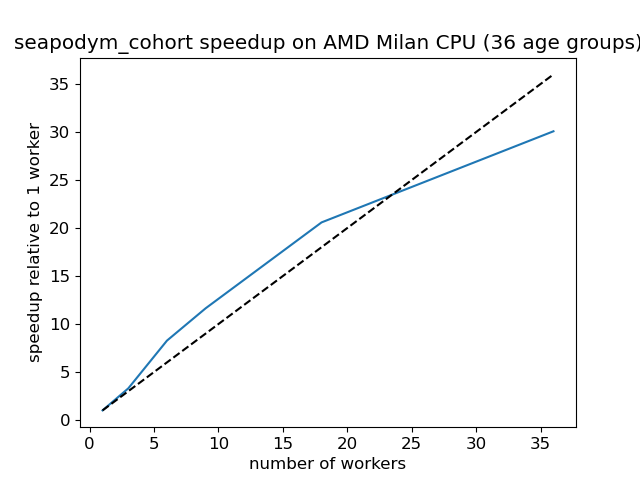
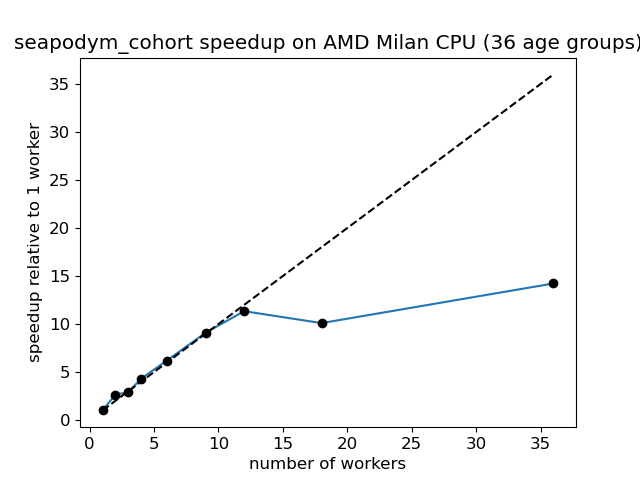
newest numbers

diff --git a/report/cohort-parallelisation/results_seapodym/plot_scaling.py b/report/cohort-parallelisation/results_seapodym/plot_scaling.py
@@ -1,13 +1,16 @@
 import matplotlib.pyplot as plt
 import numpy as np
+import pandas as pd
 
 plt.rcParams.update({'font.size': 12}) # Set the global font size to 18
 
-nprocs = np.array([2, 4, 7, 10, 19, 37])
-nworkers = nprocs - 1
-manager_times = np.array([59.6544, 18.0884, 7.21377, 5.128, 2.89823, 1.98355])
+data = pd.read_csv('timings.csv')
+
+nworkers = data.nw
+manager_times = data.time_manager
 
 plt.plot(nworkers, manager_times[0]/manager_times)
+plt.plot(nworkers, manager_times[0]/manager_times, 'ko')
 plt.plot([1, 36], [1, 36], 'k--')
 plt.xlabel('number of workers')
 plt.ylabel('speedup relative to 1 worker')
